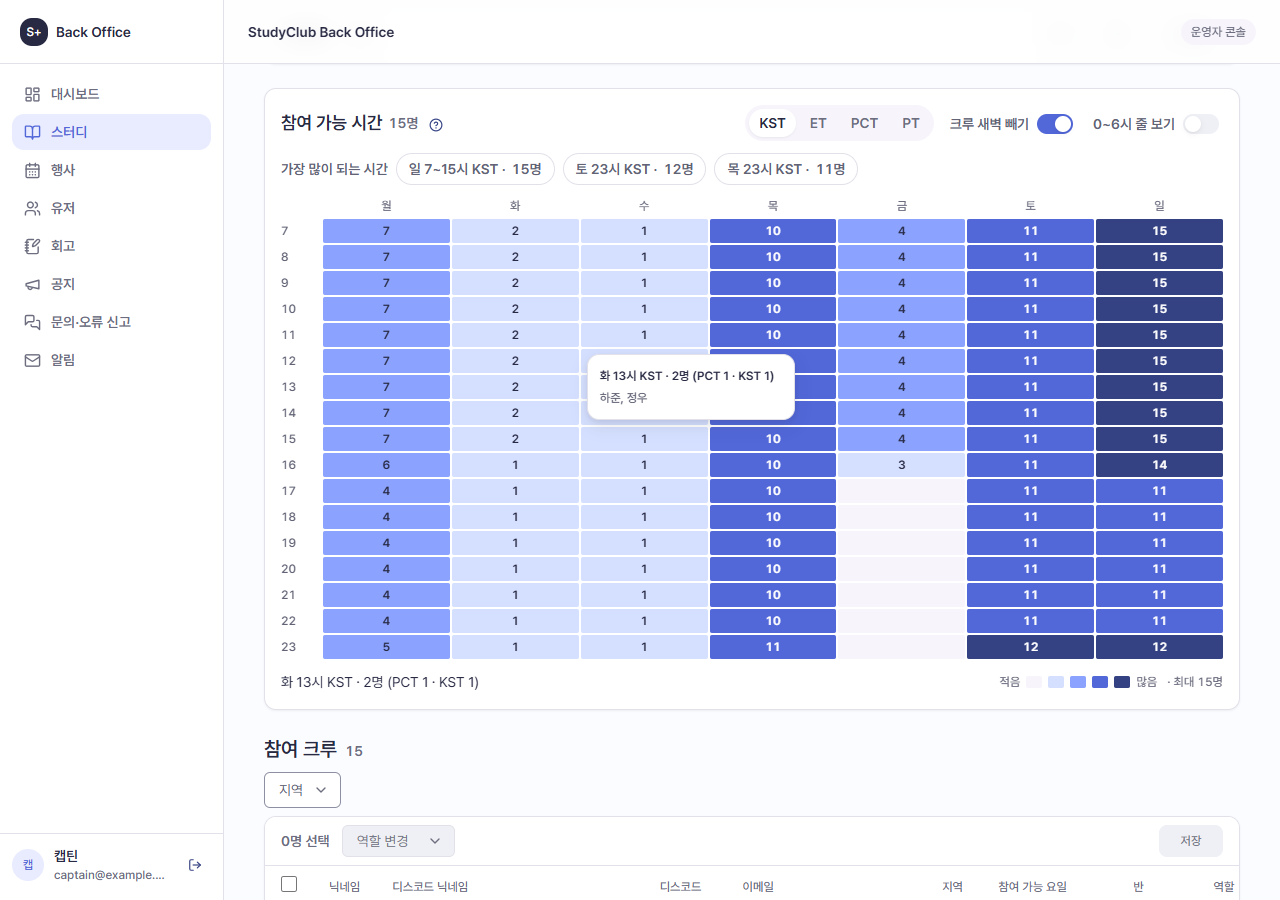
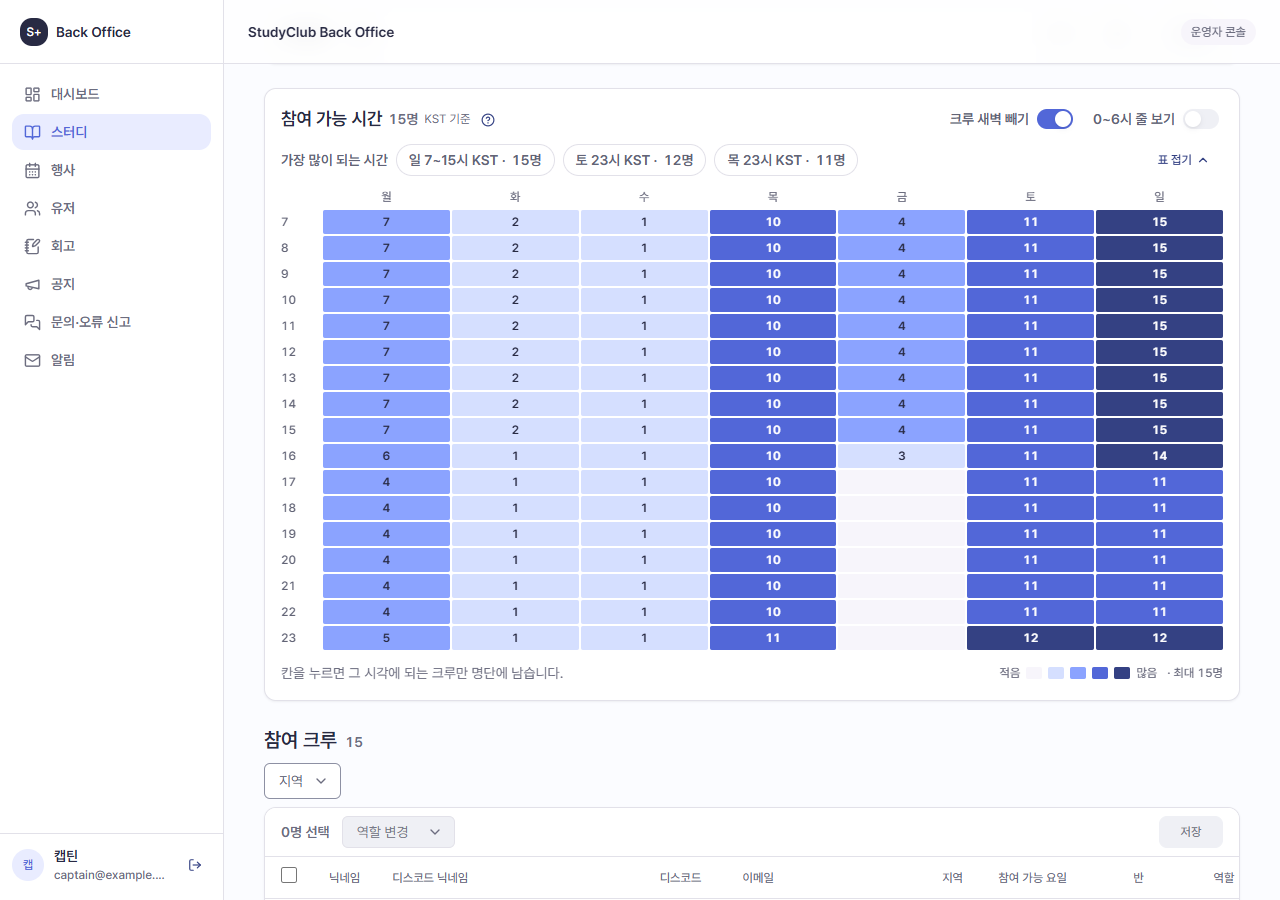
feat(playground): 참여 가능 시간 — 기준은 백오피스 표시 시간대 · 표는 처음 접힘 · 시간대 없으면 명단 「미설정」
- 칸판 자체의 기준 시간대 선택(KST · ET · PCT · PT)을 없애고 useDisplayTimeZone 을 따른다 — #527 공통 헤더 시간대와 맞춤. 제목 옆 「KST 기준」
- 표는 처음 접어 둔다(간단히 보기) — 가장 많이 되는 시간이 먼저
- back-office 명단 시간대 열 — 없으면 「미설정」 (칸판은 KST 로 셈)
- spec 3-2 · 3-4 · 3-9, PRD 완료 기준 13 · 19, 결정 문서 2 · 4-1 · 6, e2e 지도, 화면 캡처 (PT 캡처 대신 간단히 보기)

diff --git a/frontend/apps/back-office-front/src/features/participants/ParticipantsTab.test.tsx b/frontend/apps/back-office-front/src/features/participants/ParticipantsTab.test.tsx
@@ -30,6 +30,13 @@ const memoryUrl = vi.hoisted(() => {
     push: vi.fn(),
   };
 });
+// 칸판의 기준 시간대 = 백오피스 표시 시간대. 테스트에서 바꿔 본다
+const displayZone = vi.hoisted(() => ({ value: 'Asia/Seoul' }));
+vi.mock('@/lib/use-display-timezone', async (importOriginal) => ({
+  ...(await importOriginal<typeof import('@/lib/use-display-timezone')>()),
+  useDisplayTimeZone: () => displayZone.value,
+}));
+
 vi.mock('next/navigation', async () => {
   const { useMemo, useSyncExternalStore } = await import('react');
   const router = { push: memoryUrl.push, replace: (url: string) => memoryUrl.set(url.split('?')[1] ?? '') };
@@ -451,7 +458,7 @@ describe('참여자 반 편성', () => {
     const cellOf = (nickname: string) => table.getByText(nickname).closest('tr')!;
     expect(within(cellOf('한국크루')).getByText('KST')).toBeVisible();
     expect(within(cellOf('북미캡틴')).getByText('PCT')).toBeVisible();
-    expect(within(cellOf('시간대없음')).getByText('-')).toBeVisible();
+    expect(within(cellOf('시간대없음')).getByText('미설정')).toBeVisible();
 
     await userEvent.selectOptions(screen.getByRole('combobox', { name: '시간대 필터' }), 'America/Vancouver');
     expect(memoryUrl.get()).toBe('tz=America%2FVancouver');
@@ -525,6 +532,16 @@ describe('참여자 반 편성', () => {
 });
 
 describe('참여 가능 시간', () => {
+  afterEach(() => {
+    displayZone.value = 'Asia/Seoul';
+  });
+
+  // 표는 처음에 접혀 있다(간단히 보기) — 칸을 보는 테스트는 펼치고 시작한다
+  async function mountOpen(res: ParticipantsResponse) {
+    mount(res);
+    await userEvent.click(await screen.findByRole('button', { name: '표 펼치기' }));
+  }
+
   const withDays: ParticipantsResponse = {
     ...data,
     participants: [
@@ -568,7 +585,7 @@ describe('참여 가능 시간', () => {
   });
 
   it('크루 현지 요일을 기준 시간대로 옮겨 세고, 칸을 누르면 그 시각에 되는 크루만 명단에 남는다', async () => {
-    mount(withDays);
+    await mountOpen(withDays);
     // KST 월 12시 = 밴쿠버 일요일 저녁 → 한국크루만. KST 화 12시 = 밴쿠버 월요일 저녁 → 북미캡틴만
     const mon = await screen.findByRole('button', { name: '월 12시 KST · 1명' });
     expect(screen.getByRole('button', { name: '화 12시 KST · 1명' })).toBeVisible();
@@ -588,17 +605,15 @@ describe('참여 가능 시간', () => {
     expect(mon).toHaveAttribute('aria-pressed', 'false');
   });
 
-  it('기준 시간대를 바꾸면 칸이 그 시간대로 다시 그려지고 고른 칸은 풀린다', async () => {
-    mount(withDays);
-    await userEvent.click(await screen.findByRole('button', { name: '월 12시 KST · 1명' }));
-    await userEvent.click(screen.getByRole('tab', { name: 'PCT' }));
-    expect(screen.queryByText(/에 되는 크루 \d+명/)).not.toBeInTheDocument();
+  it('기준 시간대는 백오피스 표시 시간대를 따르고, 칸판에 따로 고르는 칸은 없다', async () => {
+    displayZone.value = 'America/Vancouver';
+    await mountOpen(withDays);
     expect(screen.getByRole('grid', { name: '참여 가능 인원 · 시각 × 요일 (PCT)' })).toBeVisible();
-    expect(within(screen.getByRole('table')).getByText('북미캡틴')).toBeVisible();
+    expect(screen.queryByRole('tablist', { name: '기준 시간대' })).not.toBeInTheDocument();
   });
 
   it('크루 새벽 빼기를 끄면 크루 현지 새벽 칸도 센다', async () => {
-    mount(withDays);
+    await mountOpen(withDays);
     // 기준 시간대 0 ~ 6시 줄은 처음엔 숨기고, 「0~6시 줄 보기」로 펼친다
     expect(await screen.findByRole('button', { name: '월 7시 KST · 1명' })).toBeVisible();
     expect(screen.queryByRole('button', { name: /^월 3시 KST/ })).not.toBeInTheDocument();
@@ -635,27 +650,28 @@ describe('참여 가능 시간', () => {
     expect(scroll).toHaveBeenCalled();
   });
 
-  it('표 접기를 누르면 칸판만 접히고, 가장 많이 되는 시간은 남는다', async () => {
+  it('표는 처음에 접혀 있고(간단히 보기), 펼치고 접을 수 있다 — 가장 많이 되는 시간은 늘 보인다', async () => {
     mount(withDays);
-    const grid = await screen.findByRole('grid', { name: /^참여 가능 인원/ });
-    await userEvent.click(screen.getByRole('button', { name: '표 접기' }));
-    expect(grid).not.toBeVisible();
-    expect(screen.getByRole('group', { name: '가장 많이 되는 시간' })).toBeVisible();
-    const open = screen.getByRole('button', { name: '표 펼치기' });
+    const open = await screen.findByRole('button', { name: '표 펼치기' });
     expect(open).toHaveAttribute('aria-expanded', 'false');
+    expect(screen.queryByRole('grid', { name: /^참여 가능 인원/ })).not.toBeInTheDocument();
+    expect(screen.getByRole('group', { name: '가장 많이 되는 시간' })).toBeVisible();
     await userEvent.click(open);
-    expect(grid).toBeVisible();
+    expect(screen.getByRole('grid', { name: /^참여 가능 인원/ })).toBeVisible();
+    await userEvent.click(screen.getByRole('button', { name: '표 접기' }));
+    expect(screen.queryByRole('grid', { name: /^참여 가능 인원/ })).not.toBeInTheDocument();
+    expect(screen.getByRole('group', { name: '가장 많이 되는 시간' })).toBeVisible();
   });
 
   it('반 · 시간대 필터를 바꾸면 고른 시각을 푼다', async () => {
-    mount(withDays);
+    await mountOpen(withDays);
     await userEvent.click(await screen.findByRole('button', { name: '월 12시 KST · 1명' }));
     await userEvent.selectOptions(screen.getByRole('combobox', { name: '시간대 필터' }), 'Asia/Seoul');
     expect(screen.queryByText(/에 되는 크루 \d+명/)).not.toBeInTheDocument();
   });
 
   it('시간대가 없는 크루는 KST 로 세고, 따로 알리지 않는다', async () => {
-    mount({
+    await mountOpen({
       ...withDays,
       participants: withDays.participants.map((p) => (p.participantId === 42 ? { ...p, timeZone: null } : p)),
     });
@@ -665,7 +681,7 @@ describe('참여 가능 시간', () => {
   });
 
   it('칸에 올리면 그 시각에 되는 크루 닉네임을 말풍선으로 보인다', async () => {
-    mount(withDays);
+    await mountOpen(withDays);
     await userEvent.hover(await screen.findByRole('button', { name: '월 12시 KST · 1명' }));
     const tip = screen.getByRole('tooltip');
     expect(tip).toHaveTextContent('월 12시 KST · 1명');

diff --git a/frontend/apps/back-office-front/src/features/participants/AvailabilitySection.tsx b/frontend/apps/back-office-front/src/features/participants/AvailabilitySection.tsx
@@ -2,7 +2,7 @@
 
 import { useId, useMemo, useState } from 'react';
 
-import { Button, FilterChip, HeatGrid, HelpPopover, Segmented, Switch, type HeatGridCell } from '@studyclub/ui';
+import { Button, FilterChip, HeatGrid, HelpPopover, Switch, type HeatGridCell } from '@studyclub/ui';
 import {
   NIGHT_END_HOUR,
   WEEKDAY_KEYS,
@@ -13,7 +13,8 @@ import {
 } from '@studyclub/utils';
 import { ArrowDown, ChevronDown } from 'lucide-react';
 
-import { DISPLAY_ZONES, zoneLabel } from '@/features/schedule/time';
+import { zoneLabel } from '@/features/schedule/time';
+import { useDisplayTimeZone } from '@/lib/use-display-timezone';
 
 /** 고른 시각 — 칸 하나면 `hour` 만, 「가장 많이 되는 시간」 구간이면 `endHour` 까지 */
 export type AvailabilityPick = { day: number; hour: number; endHour?: number; baseZone: string; ids: number[] };
@@ -47,11 +48,12 @@ export function AvailabilitySection({
   /** 「명단에서 보기」가 스크롤해 갈 명단 영역의 id */
   rosterId: string;
 }) {
-  const [baseZone, setBaseZone] = useState<string>(DISPLAY_ZONES[0].iana);
+  // 기준 시간대 = 백오피스 표시 시간대(지금은 운영자 프로필, 없으면 서울 · 헤더 시간대가 생기면 그것). 칸판에 따로 고르는 칸을 두지 않는다
+  const baseZone = useDisplayTimeZone();
   const [excludeNight, setExcludeNight] = useState(true);
   const [showNightRows, setShowNightRows] = useState(false);
-  // 표만 접는다 — 「가장 많이 되는 시간」과 고른 시각 줄은 접어도 남는다
-  const [gridOpen, setGridOpen] = useState(true);
+  // 처음엔 표를 접어 둔다(간단히 보기) — 「가장 많이 되는 시간」과 고른 시각 줄은 접어도 남는다
+  const [gridOpen, setGridOpen] = useState(false);
   const gridId = useId();
   const hours = showNightRows ? ALL_HOURS : DAY_HOURS;
   const overlap = useMemo(
@@ -86,7 +88,7 @@ export function AvailabilitySection({
     onPick({ day: cell.col, hour, baseZone, ids: cellAt(hour, cell.col).ids });
   }
 
-  // 기준 · 새벽 빼기 · 줄 보기를 바꾸면 고른 칸의 사람이 달라질 수 있다 — 고른 칸은 푼다
+  // 새벽 빼기 · 줄 보기를 바꾸면 고른 칸의 사람이 달라질 수 있다 — 고른 칸은 푼다
   function change<T>(set: (v: T) => void) {
     return (v: T) => {
       set(v);
@@ -104,22 +106,15 @@ export function AvailabilitySection({
         <h2 className='flex items-center gap-1.5 font-semibold'>
           참여 가능 시간
           <span className='tnum type-label-lg text-fg-muted'>{overlap.counted}명</span>
+          <span className='type-label-sm font-normal text-fg-muted'>{zoneLabel(baseZone)} 기준</span>
           <HelpPopover label='참여 가능 시간 설명'>
             신청서는 요일만 받습니다. 고른 요일은 그 크루 현지의 하루 전체로 보고, 기준 시간대의 요일 · 시각으로 옮겨
-            셉니다. 프로필 시간대가 없는 크루는 한국 시간으로 봅니다. 북미 서머타임은 이번 주 날짜로 계산합니다. 「크루
-            새벽 빼기」는 크루 현지 0~{NIGHT_END_HOUR}시를 세지 않고, 「0~6시 줄 보기」는 기준 시간대의 0~6시 줄을
-            펼칩니다.
+            셉니다. 기준은 백오피스 표시 시간대입니다. 프로필 시간대가 없는 크루는 한국 시간으로 봅니다. 북미 서머타임은
+            이번 주 날짜로 계산합니다. 「크루 새벽 빼기」는 크루 현지 0~{NIGHT_END_HOUR}시를 세지 않고, 「0~6시 줄
+            보기」는 기준 시간대의 0~6시 줄을 펼칩니다.
           </HelpPopover>
         </h2>
         <div className='ml-auto flex flex-wrap items-center gap-3'>
-          <Segmented
-            size='sm'
-            shape='pill'
-            aria-label='기준 시간대'
-            options={DISPLAY_ZONES.map((z) => ({ value: z.iana as string, label: z.label }))}
-            value={baseZone}
-            onChange={change(setBaseZone)}
-          />
           <Switch label='크루 새벽 빼기' checked={excludeNight} onCheckedChange={change(setExcludeNight)} />
           <Switch label='0~6시 줄 보기' checked={showNightRows} onCheckedChange={change(setShowNightRows)} />
         </div>

diff --git a/frontend/apps/playground/src/proto/console/components/AvailabilityBoard.tsx b/frontend/apps/playground/src/proto/console/components/AvailabilityBoard.tsx
@@ -2,8 +2,9 @@
 
 import { useId, useMemo, useState } from 'react';
 
-import { SCHEDULE_ZONES, zoneSymbol } from '@core/lib/schedule-timezone';
-import { Button, FilterChip, HeatGrid, HelpPopover, Segmented, Switch, type HeatGridCell } from '@studyclub/ui';
+import { zoneSymbol } from '@core/lib/schedule-timezone';
+import { useDisplayTimeZone } from '@core/lib/use-display-timezone';
+import { Button, FilterChip, HeatGrid, HelpPopover, Switch, type HeatGridCell } from '@studyclub/ui';
 import {
   NIGHT_END_HOUR,
   WEEKDAY_KEYS,
@@ -46,11 +47,12 @@ export function AvailabilityBoard({
   /** 「명단에서 보기」가 스크롤해 갈 명단 영역의 id */
   rosterId: string;
 }) {
-  const [baseZone, setBaseZone] = useState<string>(SCHEDULE_ZONES[0]!.iana);
+  // 기준 시간대 = 백오피스 표시 시간대(지금은 운영자 프로필, 없으면 서울 · 헤더 시간대가 생기면 그것). 칸판에 따로 고르는 칸을 두지 않는다
+  const baseZone = useDisplayTimeZone();
   const [excludeNight, setExcludeNight] = useState(true);
   const [showNightRows, setShowNightRows] = useState(false);
-  // 표만 접는다 — 「가장 많이 되는 시간」과 고른 시각 줄은 접어도 남는다
-  const [gridOpen, setGridOpen] = useState(true);
+  // 처음엔 표를 접어 둔다(간단히 보기) — 「가장 많이 되는 시간」과 고른 시각 줄은 접어도 남는다
+  const [gridOpen, setGridOpen] = useState(false);
   const gridId = useId();
   const hours = showNightRows ? ALL_HOURS : DAY_HOURS;
   const overlap = useMemo(
@@ -85,7 +87,7 @@ export function AvailabilityBoard({
     onPick({ day: cell.col, hour, baseZone, ids: cellAt(hour, cell.col).ids });
   }
 
-  // 기준 · 새벽 빼기 · 줄 보기를 바꾸면 고른 칸의 사람이 달라질 수 있다 — 고른 칸은 푼다
+  // 새벽 빼기 · 줄 보기를 바꾸면 고른 칸의 사람이 달라질 수 있다 — 고른 칸은 푼다
   function change<T>(set: (v: T) => void) {
     return (v: T) => {
       set(v);
@@ -105,26 +107,19 @@ export function AvailabilityBoard({
           <span data-anno='class:3-1' className='tnum type-label-lg text-fg-muted'>
             {overlap.counted}명
           </span>
+          <span data-anno='class:3-2' className='type-label-sm font-normal text-fg-muted'>
+            {zoneSymbol(baseZone)} 기준
+          </span>
           <span data-anno='class:3-5'>
             <HelpPopover label='참여 가능 시간 설명'>
               신청서는 요일만 받습니다. 고른 요일은 그 크루 현지의 하루 전체로 보고, 기준 시간대의 요일 · 시각으로 옮겨
-              셉니다. 프로필 시간대가 없는 크루는 한국 시간으로 봅니다. 북미 서머타임은 이번 주 날짜로 계산합니다.
-              「크루 새벽 빼기」는 크루 현지 0~{NIGHT_END_HOUR}시를 세지 않고, 「0~6시 줄 보기」는 기준 시간대의 0~6시
-              줄을 펼칩니다.
+              셉니다. 기준은 백오피스 표시 시간대입니다. 프로필 시간대가 없는 크루는 한국 시간으로 봅니다. 북미
+              서머타임은 이번 주 날짜로 계산합니다. 「크루 새벽 빼기」는 크루 현지 0~{NIGHT_END_HOUR}시를 세지 않고,
+              「0~6시 줄 보기」는 기준 시간대의 0~6시 줄을 펼칩니다.
             </HelpPopover>
           </span>
         </h2>
         <div className='ml-auto flex flex-wrap items-center gap-3'>
-          <span data-anno='class:3-2'>
-            <Segmented
-              size='sm'
-              shape='pill'
-              aria-label='기준 시간대'
-              options={SCHEDULE_ZONES.map((z) => ({ value: z.iana, label: zoneSymbol(z.iana) }))}
-              value={baseZone}
-              onChange={change(setBaseZone)}
-            />
-          </span>
           <span data-anno='class:3-3'>
             <Switch label='크루 새벽 빼기' checked={excludeNight} onCheckedChange={change(setExcludeNight)} />
           </span>

diff --git a/frontend/apps/playground/src/app/(proto)/proto/console/studies/[id]/spec.ts b/frontend/apps/playground/src/app/(proto)/proto/console/studies/[id]/spec.ts
@@ -970,9 +970,12 @@ export const CLASS_SPEC: ScreenSpec = {
     {
       n: '3-2',
       title: '기준 시간대',
-      display: ['KST · ET · PCT · PT 중 하나. 처음은 KST'],
-      behavior: ['바꾸면 칸이 그 시간대의 요일 · 시각으로 다시 그려지고, 고른 칸(3-4)은 풀린다'],
-      policy: ['선택지는 스터디 시간의 시간대 선택지와 같다 (POL-0006)'],
+      display: ['제목 옆 「KST 기준」 — 칸판이 어느 시간대의 요일 · 시각인지'],
+      policy: [
+        '기준 시간대 = 백오피스 표시 시간대. 지금은 운영자 프로필 시간대(없으면 서울), 공통 헤더 시간대가 생기면 그 값 (POL-0006 · #527)',
+        '칸판 안에서 따로 고르지 않는다 — 일정 · 출석과 같은 기준으로 본다',
+        '프로필 시간대가 없는 크루는 KST 로 센다. 명단의 시간대 열은 「미설정」 그대로 보인다',
+      ],
     },
     {
       n: '3-3',
@@ -984,6 +987,7 @@ export const CLASS_SPEC: ScreenSpec = {
     {
       n: '3-4',
       title: '시각 × 요일 칸',
+      when: '「표 펼치기」(3-9)로 펼쳤을 때',
       display: [
         '칸 안에 인원 숫자를 적는다(0 은 비운다). 진한 칸은 흰 글자',
         '칸에 마우스 · 포커스를 올리면 칸 옆 말풍선에 「월 21시 KST · 11명 (KST 8 · PT 3)」과 그 시각에 되는 크루 닉네임을 쉼표로 나열한다. 아무도 없으면 「이 시각에 되는 크루가 없습니다」',
@@ -1037,8 +1041,9 @@ export const CLASS_SPEC: ScreenSpec = {
     {
       n: '3-9',
       title: '표 접기 · 펼치기',
-      display: ['「가장 많이 되는 시간」 줄 오른쪽 「표 접기 ⌃」 · 접으면 「표 펼치기 ⌄」. 처음은 펼침'],
-      behavior: ['칸판(3-4)만 접는다. 가장 많이 되는 시간(3-7) · 고른 시각(3-8) · 명단 필터(4)는 그대로'],
+      display: ['「가장 많이 되는 시간」 줄 오른쪽 「표 펼치기 ⌄」 · 펼치면 「표 접기 ⌃」. 처음은 접힘 — 간단히 보기가 기본'],
+      behavior: ['칸판(3-4)만 접고 편다. 가장 많이 되는 시간(3-7) · 고른 시각(3-8) · 명단 필터(4)는 그대로'],
+      policy: ['처음 보이는 것은 「가장 많이 되는 시간」 — 캡틴이 먼저 알고 싶은 답이다. 칸판은 자세히 볼 때만 편다'],
     },
     {
       n: '4',

diff --git a/frontend/apps/back-office-front/src/features/participants/ParticipantsTab.tsx b/frontend/apps/back-office-front/src/features/participants/ParticipantsTab.tsx
@@ -304,7 +304,8 @@ function ParticipantAssignment({
                   </td>
                   <td>{p.discordNickname ?? '-'}</td>
                   <td>{p.email}</td>
-                  <td title={p.timeZone ?? undefined}>{p.timeZone ? zoneLabel(p.timeZone) : '-'}</td>
+                  {/* 시간대 없는 크루 — 칸판은 KST 로 세지만 명단은 「미설정」 그대로 보인다 (#527 과 맞춤) */}
+                  <td title={p.timeZone ?? undefined}>{p.timeZone ? zoneLabel(p.timeZone) : '미설정'}</td>
                   {/* 크루가 고른 현지 요일 그대로 — 기준 시간대로 옮기면 하루가 이틀에 걸친다 */}
                   <td className='whitespace-nowrap'>{availableDaysText(p.availableDays) || '-'}</td>
                   <td>

diff --git a/01-planning/stories/captain-assign-classes/PRD.md b/01-planning/stories/captain-assign-classes/PRD.md
@@ -42,12 +42,13 @@ flowchart LR
 10. 반의 기간은 저장하지 않음 — 첫 회차 ~ 마지막 회차
 11. 캡틴 전용 명단 줄 없음. 참여하려는 캡틴은 신청 폼 제출 후 크루와 같은 줄로 표시
 12. 참여 가능 시간 확인 — 기준 시간대의 시각(줄) × 요일(열)마다 참여 가능 인원. 칸에 올리면 그 시각에 되는 크루 닉네임
-13. 기준 시간대 전환(KST · ET · PCT · PT) 및 「크루 새벽 빼기」 켜고 끄기. 처음은 KST · 켜짐 · 기준 시간대 0~6시 줄은 처음 숨기고 「0~6시 줄 보기」로 펼침
+13. 기준 시간대는 백오피스 표시 시간대(운영자 프로필, 없으면 서울 · 공통 헤더가 생기면 헤더)를 따르고 칸판에서 따로 고르지 않음. 「크루 새벽 빼기」 켜고 끄기(처음 켜짐) · 기준 시간대 0~6시 줄은 처음 숨기고 「0~6시 줄 보기」로 펼침
 14. 칸 고르기로 그 시각에 되는 크루만 명단에 남기기 · 풀기
 15. 명단 「참여 가능 요일」 열 — 크루가 고른 현지 요일. 없으면 「-」
 16. 프로필 시간대가 없는 크루는 KST 로 센다
 17. 「가장 많이 되는 시간」 — 요일마다 인원이 가장 많은 구간을 많은 순으로 3개까지. 누르면 그 구간 내내 되는 크루만 명단에 남김
 18. 칸 안에 인원 숫자 · 고른 시각 아래 「명단에서 보기」로 명단으로 이동
+19. 표는 처음에 접혀 있음(간단히 보기) — 「가장 많이 되는 시간」이 먼저 보이고 「표 펼치기」로 칸판을 봄. 프로필 시간대가 없는 크루는 KST 로 세고 명단 시간대 열은 「미설정」
 
 ## 2. 화면명세
 
@@ -98,7 +99,7 @@ flowchart LR
 ### 3. 참여 가능 시간
 
 - **내용**: 기준 시간대의 시각(줄, 0 ~ 23시 모두 적는다) × 요일(열)마다 그 시각에 참여할 수 있는 크루 수. 반 · 지역 필터로 좁힌 명단을 센다. 칸에 올리면 말풍선에 「월 21시 KST · 11명 (KST 8 · PT 3)」과 그 시각에 되는 크루 닉네임
-- **동작**: 기준 시간대(KST · ET · PCT · PT, 처음 KST)와 「크루 새벽 빼기」(처음 켜짐)를 바꾸면 다시 센다. 칸을 누르면 명단이 걸러진다(4)
+- **동작**: 기준 시간대(백오피스 표시 시간대를 따름)와 「크루 새벽 빼기」(처음 켜짐)를 바꾸면 다시 센다. 칸을 누르면 명단이 걸러진다(4)
 - **정책**
   - 신청서의 참여 가능 요일은 크루 현지의 하루 전체(0~24시)로 본다
   - 칸마다 그 순간 크루 프로필 시간대의 요일 · 시각을 계산해 센다. 서머타임은 이번 주 날짜로 계산한다
@@ -274,9 +275,11 @@ erDiagram
 
 #### 3-2 — 기준 시간대
 
-- **내용**: KST · ET · PCT · PT 중 하나. 처음은 KST
-- **동작**: 바꾸면 칸이 그 시간대의 요일 · 시각으로 다시 그려지고, 고른 칸(3-4)은 풀린다
-- **정책**: 선택지는 스터디 시간의 시간대 선택지와 같다 (POL-0006)
+- **내용**: 제목 옆 「KST 기준」 — 칸판이 어느 시간대의 요일 · 시각인지
+- **정책**
+  - 기준 시간대 = 백오피스 표시 시간대. 지금은 운영자 프로필 시간대(없으면 서울), 공통 헤더 시간대가 생기면 그 값 (POL-0006 · #527)
+  - 칸판 안에서 따로 고르지 않는다 — 일정 · 출석과 같은 기준으로 본다
+  - 프로필 시간대가 없는 크루는 KST 로 센다. 명단의 시간대 열은 「미설정」 그대로 보인다
 
 #### 3-3 — 크루 새벽 빼기
 
@@ -286,6 +289,7 @@ erDiagram
 
 #### 3-4 — 시각 × 요일 칸
 
+- **조건**: 「표 펼치기」(3-9)로 펼쳤을 때
 - **내용**
   - 칸 안에 인원 숫자를 적는다(0 은 비운다). 진한 칸은 흰 글자
   - 칸에 마우스 · 포커스를 올리면 칸 옆 말풍선에 「월 21시 KST · 11명 (KST 8 · PT 3)」과 그 시각에 되는 크루 닉네임을 쉼표로 나열한다. 아무도 없으면 「이 시각에 되는 크루가 없습니다」
@@ -328,8 +332,9 @@ erDiagram
 
 #### 3-9 — 표 접기 · 펼치기
 
-- **내용**: 「가장 많이 되는 시간」 줄 오른쪽 「표 접기 ⌃」 · 접으면 「표 펼치기 ⌄」. 처음은 펼침
-- **동작**: 칸판(3-4)만 접는다. 가장 많이 되는 시간(3-7) · 고른 시각(3-8) · 명단 필터(4)는 그대로
+- **내용**: 「가장 많이 되는 시간」 줄 오른쪽 「표 펼치기 ⌄」 · 펼치면 「표 접기 ⌃」. 처음은 접힘 — 간단히 보기가 기본
+- **동작**: 칸판(3-4)만 접고 편다. 가장 많이 되는 시간(3-7) · 고른 시각(3-8) · 명단 필터(4)는 그대로
+- **정책**: 처음 보이는 것은 「가장 많이 되는 시간」 — 캡틴이 먼저 알고 싶은 답이다. 칸판은 자세히 볼 때만 편다
 
 ### 4 — 시각 필터
 

diff --git a/docs/share/2026-11-21-availability-overlap.md b/docs/share/2026-11-21-availability-overlap.md
@@ -33,13 +33,13 @@
 ## 정한 것
 
 1. **고른 요일 = 현지 하루 전체(0~24시).** 시각을 안 받으니 가장 넓게 본다.
-2. **기준 시간대 하나로 옮겨 겹친다.** 칸마다 그 순간 각 크루의 현지 요일 · 시각을 계산한다. 서머타임은 이번 주 날짜로 계산한다.
+2. **기준 시간대 하나로 옮겨 겹친다.** 칸마다 그 순간 각 크루의 현지 요일 · 시각을 계산한다. 서머타임은 이번 주 날짜로 계산한다. 기준 시간대는 **백오피스 표시 시간대**를 따른다 — 지금은 운영자 프로필(없으면 서울), 공통 헤더 시간대(#527)가 생기면 그 값. 칸판 안에서 따로 고르지 않는다 (2026-11-22 바꿈 — 처음에는 KST · ET · PCT · PT 를 칸판에서 골랐다).
 3. **현지 밤(0~7시) 빼기 — 처음부터 켬, 끌 수 있음.** 하루 전체로 보면 새벽도 겹쳐 보여서, 실제로 모일 수 있는 시간에 가깝게 기본은 뺀다.
    **기준 시간대 0~6시 줄도 처음엔 숨긴다**(「0~6시 줄 보기」로 펼침). 그 시각에 스터디를 여는 일은 없다 (2026-11-22). 스위치 이름은 「크루 새벽 빼기」 · 「0~6시 줄 보기」로 기준이 다르다는 게 드러나게 했다.
 4. **칸에 올리면 그 시각에 되는 크루 닉네임이 말풍선으로 보이고, 누르면 명단이 걸러진다.** 그대로 전체 선택 → 「바꿀 반」으로 옮긴다. 칸판은 시각을 줄(0 ~ 23시 모두), 요일을 열로 둔다.
-4-1. **격자 위에 「가장 많이 되는 시간」 알약을 3개까지 먼저 보인다.** 요일만 받아서 한 요일 칸은 위아래가 비슷하다 — 캡틴이 바로 알고 싶은 「언제가 제일 좋은가」를 답으로 먼저 준다. 칸 안에는 인원 숫자를 적는다 (2026-11-22).
+4-1. **표는 처음에 접어 두고(간단히 보기), 「가장 많이 되는 시간」 알약을 3개까지 먼저 보인다.** 「표 펼치기」로 칸판을 본다. 요일만 받아서 한 요일 칸은 위아래가 비슷하다 — 캡틴이 바로 알고 싶은 「언제가 제일 좋은가」를 답으로 먼저 준다. 칸 안에는 인원 숫자를 적는다 (2026-11-22).
 5. **명단의 「참여 가능 요일」 열은 현지 요일 그대로.** 기준 시간대로 옮기면 하루가 이틀에 걸쳐 오히려 헷갈린다. 시간대는 옆 지역 열이 말한다.
-6. **시간대가 없는 크루는 KST 로 본다.** 온보딩 전 크루가 대부분 한국 크루라 빼는 것보다 낫다. 따로 알리지 않는다 (2026-11-22 바꿈 — 처음에는 빼고 인원을 알렸다).
+6. **시간대가 없는 크루는 KST 로 본다.** 온보딩 전 크루가 대부분 한국 크루라 빼는 것보다 낫다. 칸판에서 따로 알리지 않고, 명단 시간대 열은 「미설정」으로 보인다 — #527 의 미설정 표시와 맞춘다 (2026-11-22 바꿈 — 처음에는 빼고 인원을 알렸다).
 7. **집계는 화면이 한다.** 서버는 명단 응답(`GET /api/admin/studies/{id}/participants`)에 `availableDays` 만 더한다. 기준 시간대 · 밤 빼기를 바로 바꿔 보는 보기용 셈이라 서버 판정으로 두지 않는다. 계산은 `availabilityOverlap`(`@studyclub/utils`) 한 곳뿐이다.
 
 ## 그래서 나는 뭘 해야 하나

diff --git a/docs/frontend-development-guide/admin-e2e-prd-map.md b/docs/frontend-development-guide/admin-e2e-prd-map.md
@@ -382,12 +382,13 @@
 | 10 | 반의 기간은 저장하지 않음 — 첫 회차 ~ 마지막 회차 | `BO-ST-025-S03` |
 | 11 | 캡틴 전용 명단 줄 없음. 참여하려는 캡틴은 신청 폼 제출 후 크루와 같은 줄로 표시 | `BO-ST-025-S02` |
 | 12 | 참여 가능 시간 확인 — 기준 시간대의 시각(줄) × 요일(열)마다 참여 가능 인원. 칸에 올리면 그 시각에 되는 크루 닉네임 | `BO-ST-025-S06` (닉네임 말풍선은 단위 테스트 `ParticipantsTab.test.tsx`) |
-| 13 | 기준 시간대 전환(KST · ET · PCT · PT) 및 「크루 새벽 빼기」 켜고 끄기. 처음은 KST · 켜짐. 기준 0~6시 줄은 처음 숨기고 「0~6시 줄 보기」로 펼침 | `BO-ST-025-S06` (단위 테스트 `ParticipantsTab.test.tsx`) |
+| 13 | 기준 시간대는 백오피스 표시 시간대를 따름(칸판에서 고르지 않음) · 「크루 새벽 빼기」 켜고 끄기(처음 켜짐) · 기준 0~6시 줄은 처음 숨기고 「0~6시 줄 보기」로 펼침 | `BO-ST-025-S06` (단위 테스트 `ParticipantsTab.test.tsx`) |
 | 14 | 칸 고르기로 그 시각에 되는 크루만 명단에 남기기 · 풀기 | `BO-ST-025-S06` |
 | 15 | 명단 「참여 가능 요일」 열 — 크루가 고른 현지 요일. 없으면 「-」 | `BO-ST-025-S06` |
 | 16 | 프로필 시간대가 없는 크루는 KST 로 센다 | 단위 테스트 `ParticipantsTab.test.tsx` |
 | 17 | 「가장 많이 되는 시간」 알약 — 누르면 그 구간 내내 되는 크루만 남김 | 단위 테스트 `ParticipantsTab.test.tsx` |
 | 18 | 칸 안 인원 숫자 · 「명단에서 보기」 | 단위 테스트 `ParticipantsTab.test.tsx` |
+| 19 | 표는 처음 접힘(간단히 보기) · 시간대 없는 크루는 KST 로 세고 명단은 「미설정」 | 단위 테스트 `ParticipantsTab.test.tsx` · e2e `participants.spec.ts` |
 
 | 상태 | PRD의 화면·카피 | 연결 시나리오 |
 |---|---|---|
